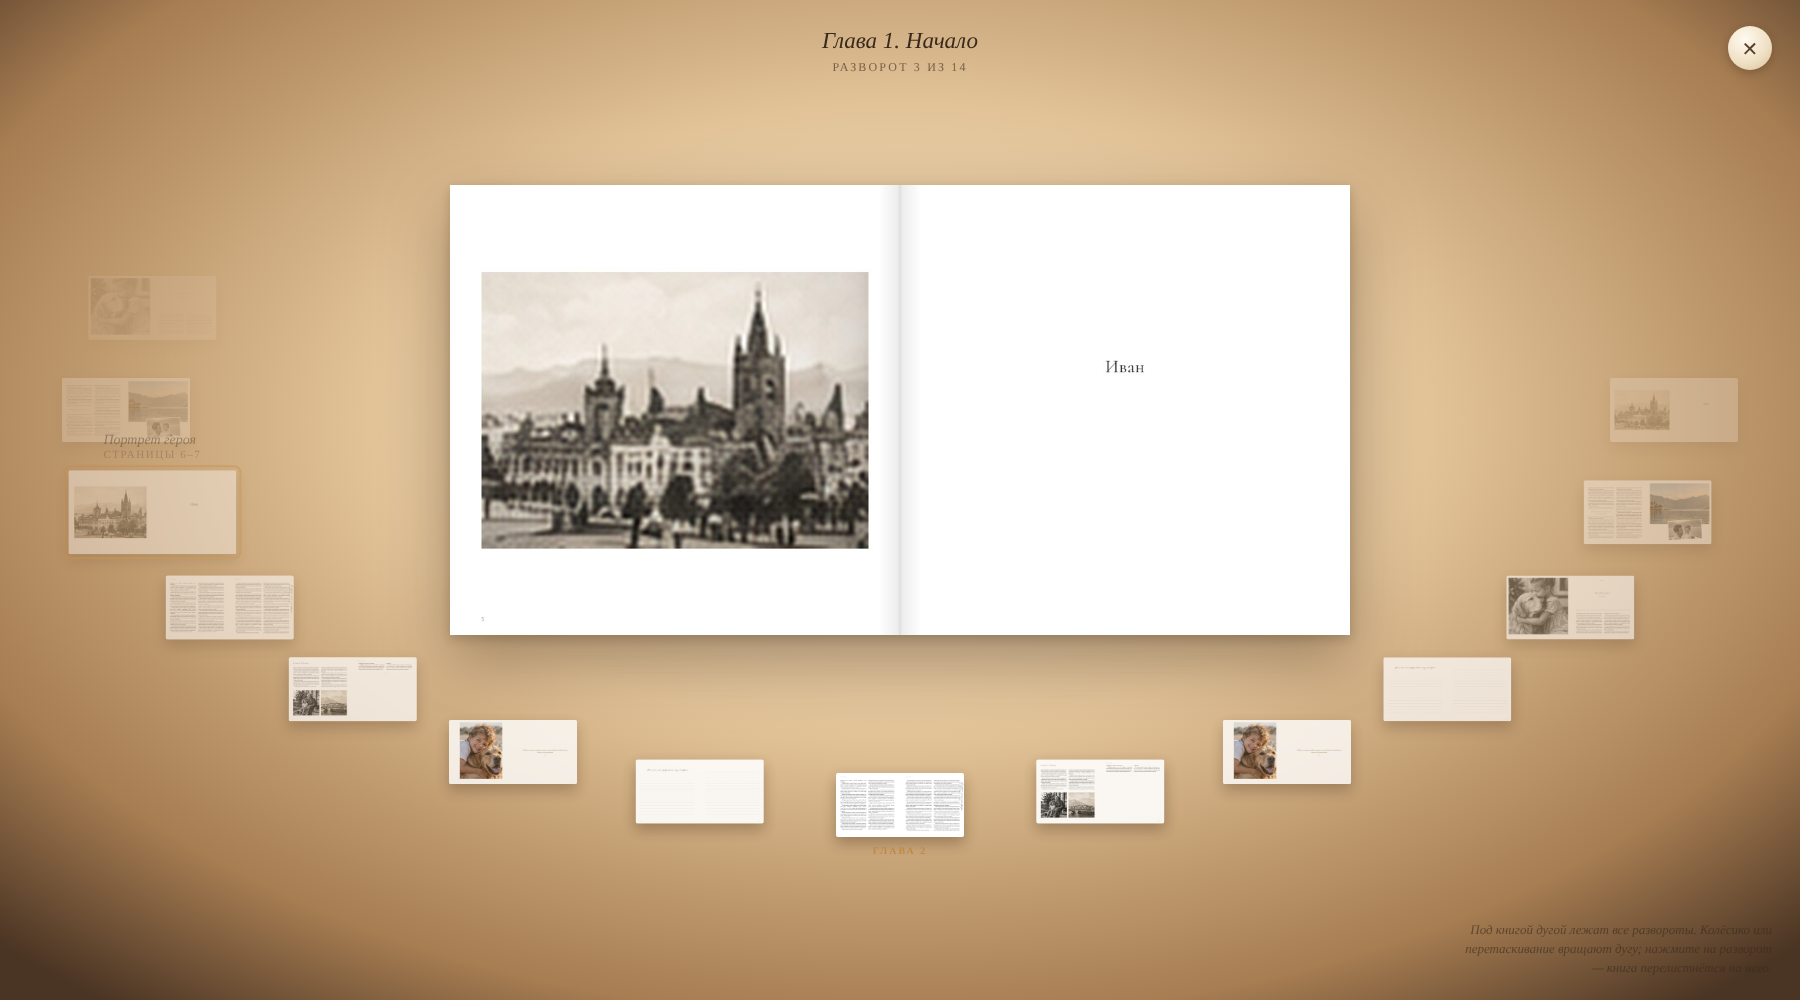
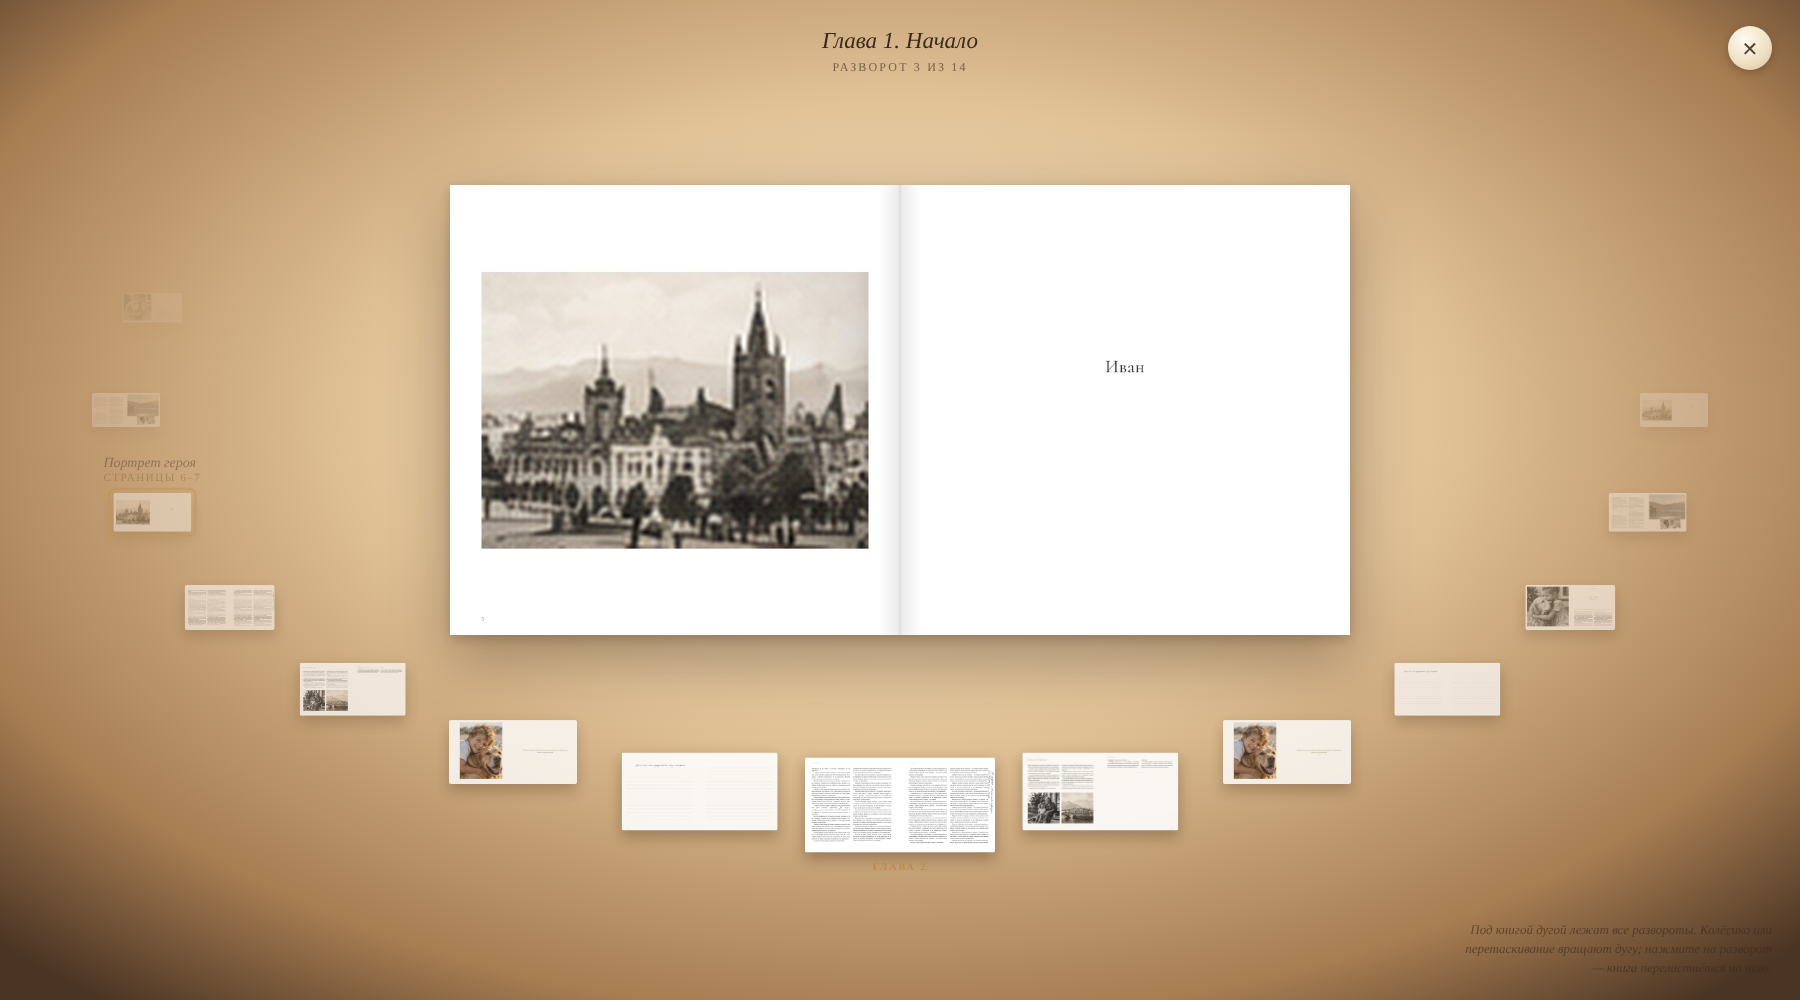
Макеты: дуга с перспективой, подвесная табличка инструментов листа
Claude-Session: https://claude.ai/code/session_01523ibQ4Bpb3TawEG9d2zYP

diff --git a/qa/mockups/spreads-arc.html b/qa/mockups/spreads-arc.html
@@ -49,7 +49,7 @@ function layout(){
   const W=innerWidth,H=innerHeight,book=document.getElementById('book').getBoundingClientRect();
   const cx=W/2,cy=book.top+book.height/2,rx=Math.max(book.width/2+170,W*.43),ry=book.height/2+Math.min(H*.2,170);
   els.forEach((el,i)=>{const deg=(i-turn)*STEP,a=Math.abs(deg),th=deg*Math.PI/180;
-    const big=i===at?168:128;el.style.width=big+'px';
+    const n0=Math.abs(i-turn),SIZE=[190,156,128,106,90,78,68,60];const big=SIZE[Math.min(n0,SIZE.length-1)];el.style.width=big+'px';
     const x=cx+rx*Math.sin(th)-big/2,y=cy+ry*Math.cos(th)-big/4;
     el.style.transform=`translate(${x}px,${y}px)`;
     const n=Math.abs(i-turn),FADE=[1,.9,.8,.7,.55,.38,.2,.08];el.style.opacity=FADE[n]??0;el.style.pointerEvents=n<FADE.length?'auto':'none';el.style.zIndex=100-Math.round(a);
